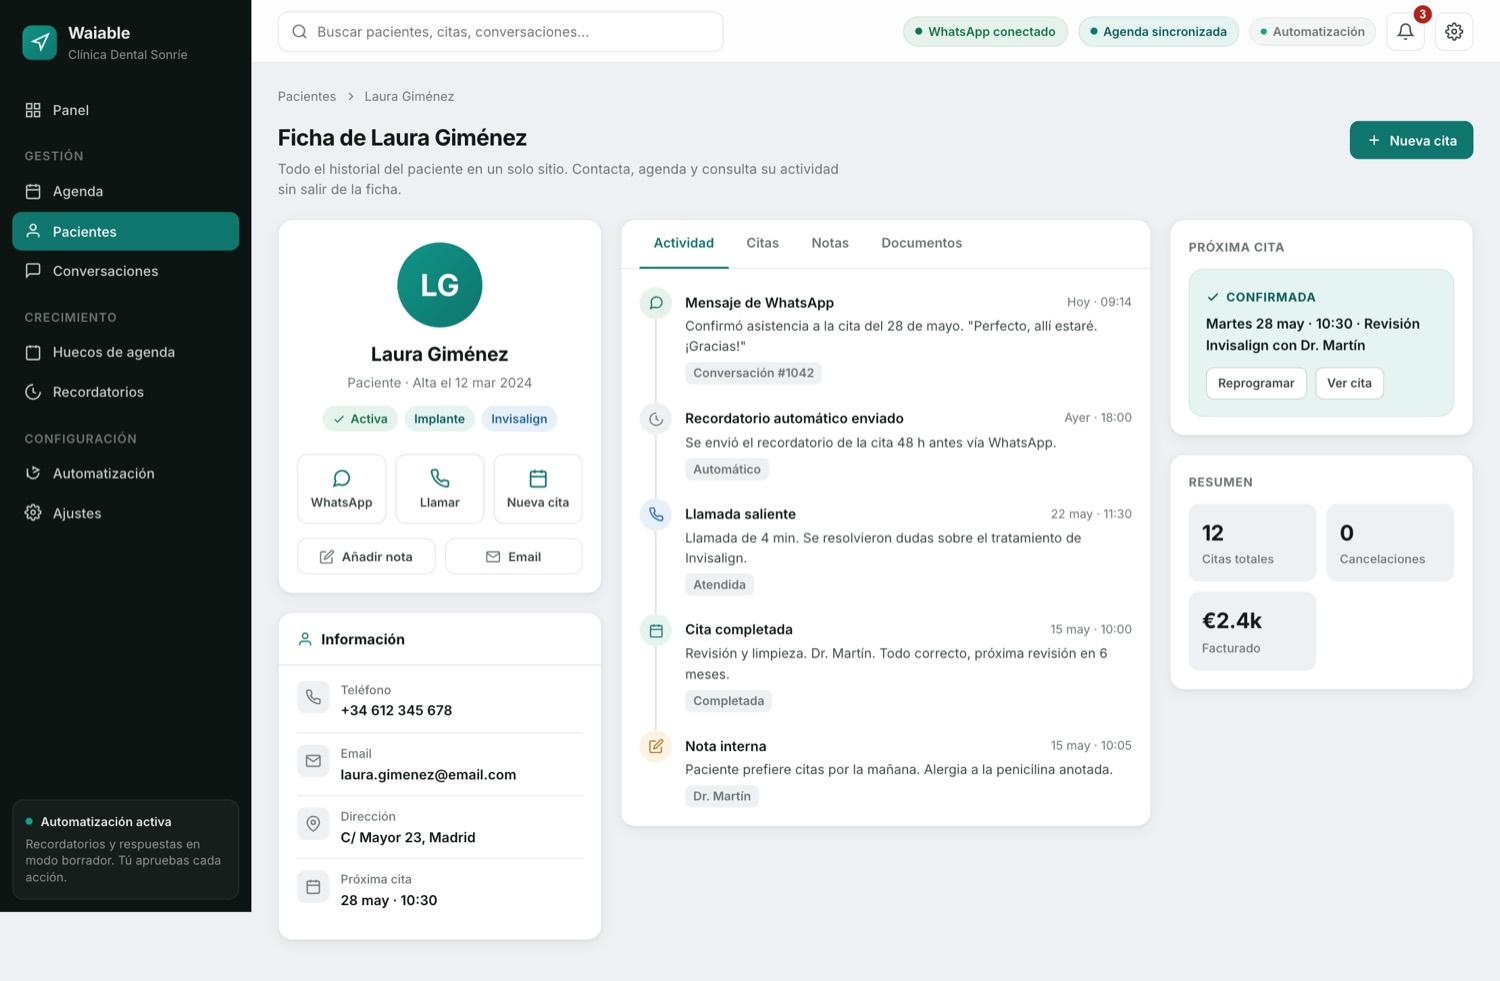
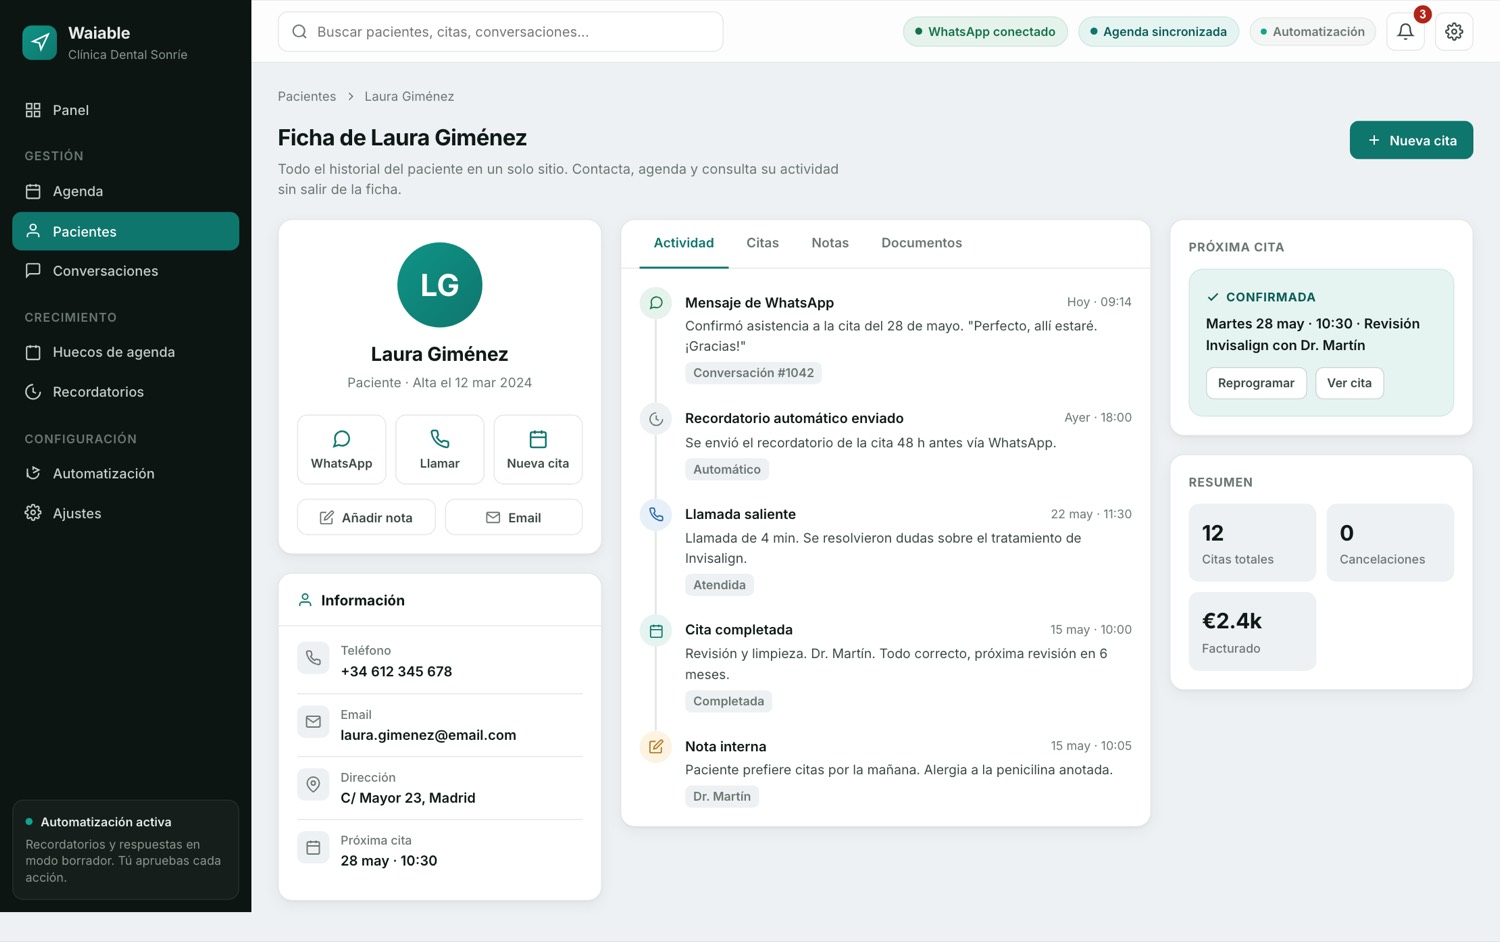
Ficha de contacto: quitar el bloque identity-tags con los estados Activa/Implante/Invisalign bajo el nombre del paciente

diff --git a/crm/ficha-contacto.html b/crm/ficha-contacto.html
@@ -285,11 +285,6 @@ body{font-family:'Inter',system-ui,sans-serif;background:var(--bg);color:var(--t
             <div class="avatar-lg">LG</div>
             <h2>Laura Giménez</h2>
             <div class="sub">Paciente · Alta el 12 mar 2024</div>
-            <div class="identity-tags">
-              <span class="chip chip-ok"><svg viewBox="0 0 24 24" fill="none" stroke="currentColor"><polyline points="20 6 9 17 4 12"/></svg>Activa</span>
-              <span class="chip chip-primary">Implante</span>
-              <span class="chip chip-info">Invisalign</span>
-            </div>
           </div>
           <!-- PRIMARY CONTACT ACTIONS -->
           <div class="qa-grid">
